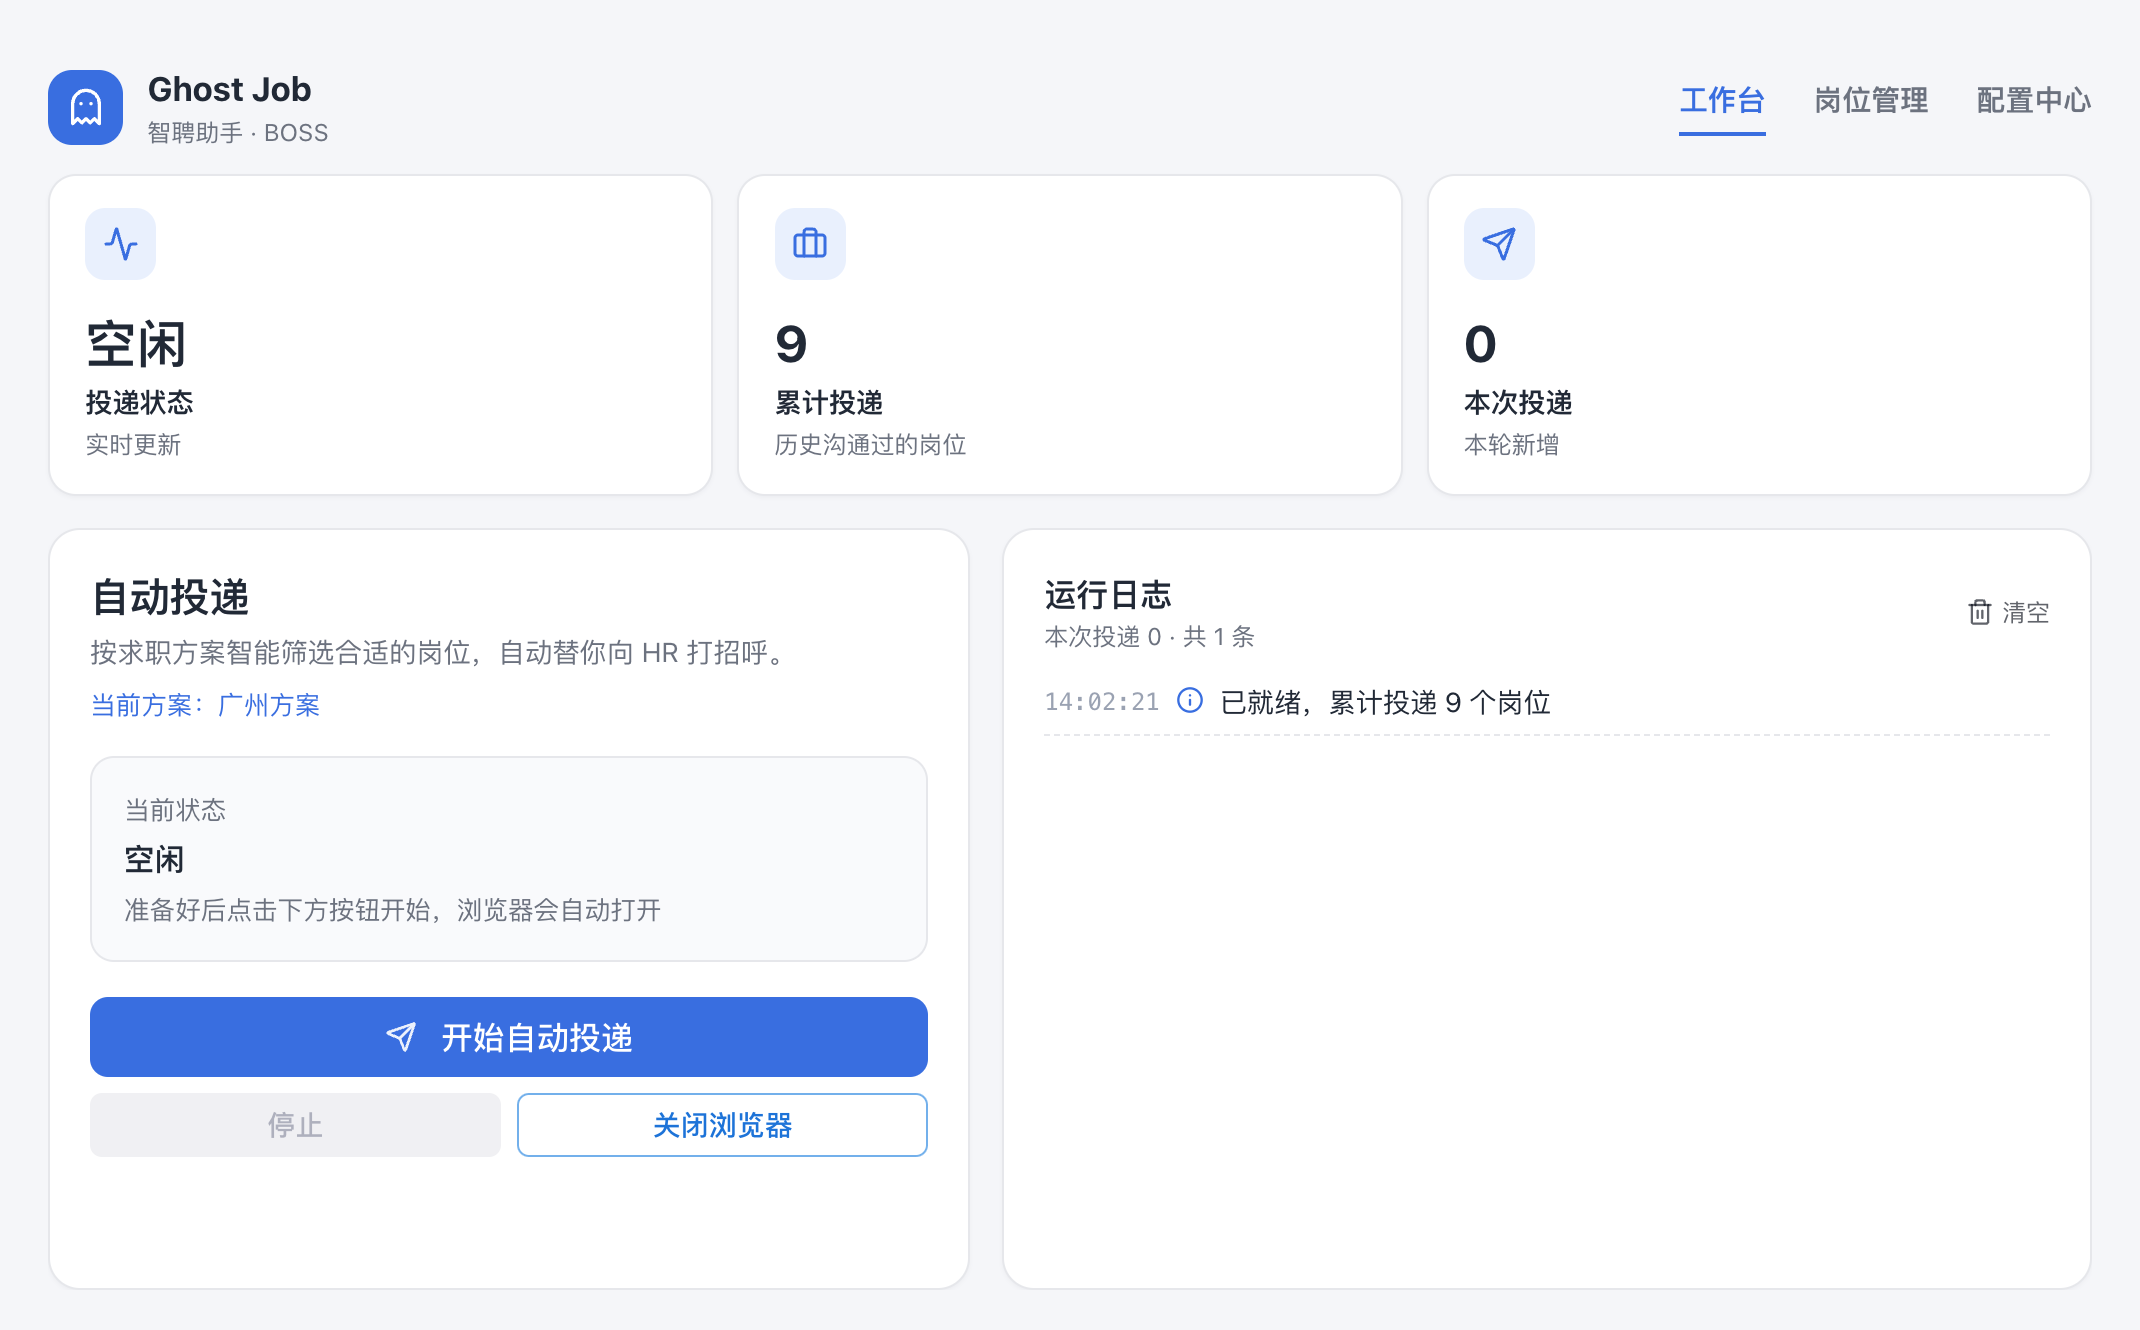
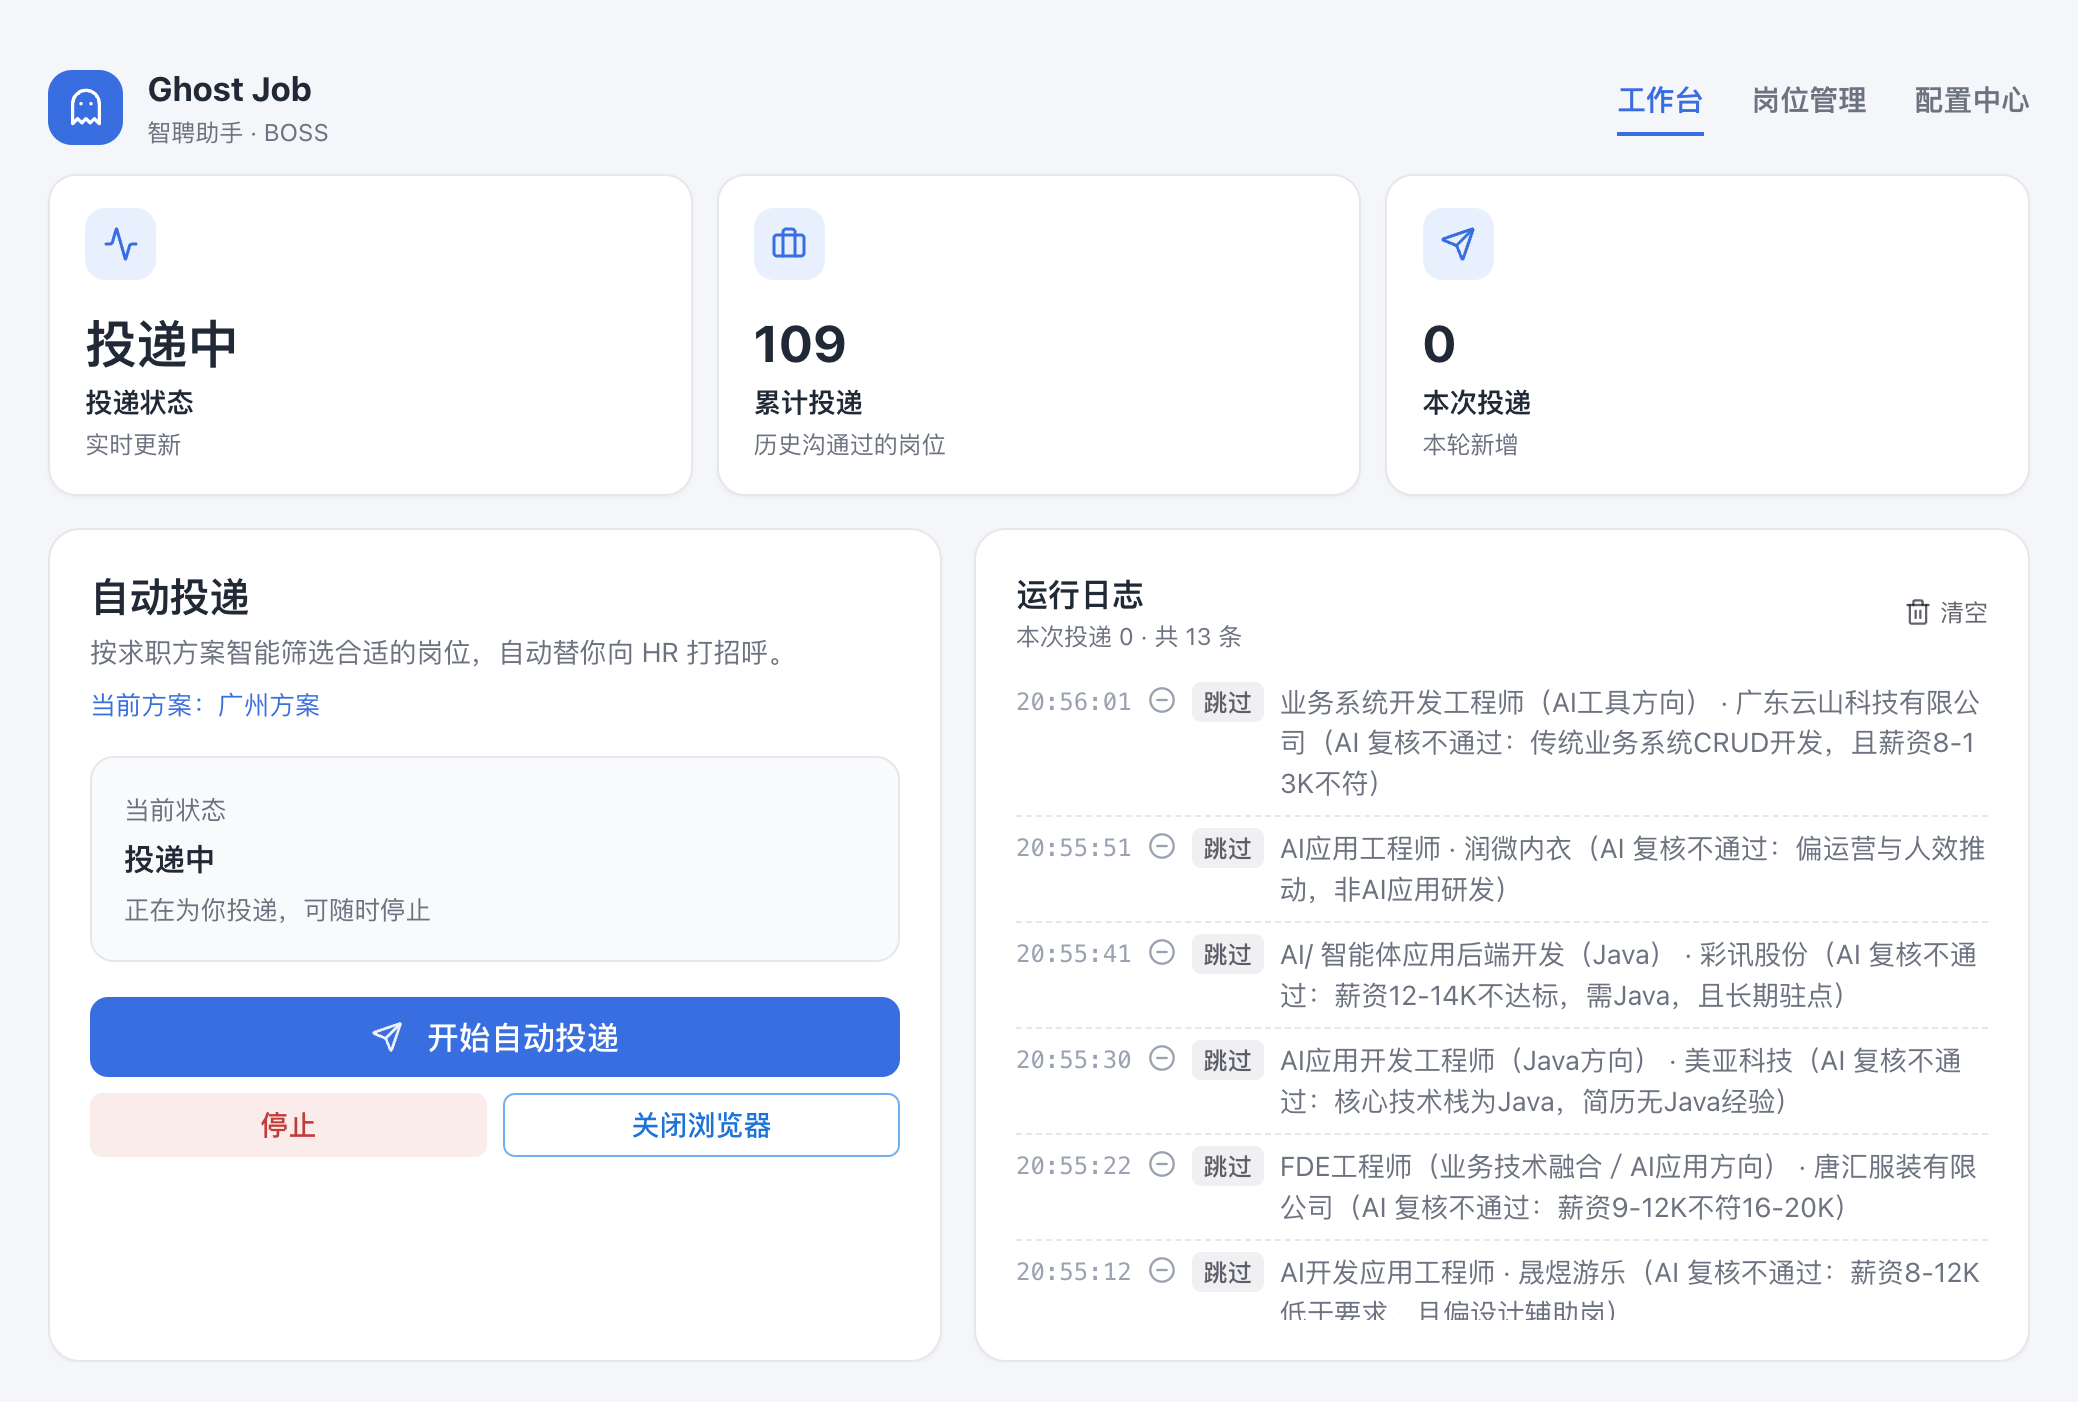
docs: 更新截图，补充 AI 岗位筛选、简历技术匹配与启动连接说明

diff --git a/README.md b/README.md
@@ -16,11 +16,11 @@
 
 ## 为什么用 Ghost Job
 
-每天刷几百个岗位、逐个点开看职责、再挨个点「立即沟通」——这些重复劳动交给 Ghost Job。
+每天刷几百个岗位、逐个点开看职责、再挨个点「立即沟通」，这些重复劳动交给 Ghost Job 就好。
 
 - **自动投递**：按求职方案逐个查看岗位，符合条件就替你向 HR 打招呼，全程无需守在电脑前
 - **AI 岗位筛选**：AI 阅读岗位职责，只投递符合你求职方向的岗位，销售、外包等一律避开
-- **简历技术匹配**：上传简历后，AI 对比岗位技术要求与你的技能，给出 0–100 的匹配度
+- **简历技术匹配**：上传简历后，AI 对比岗位技术要求与你的技能，给出 0 到 100 分的匹配度
 - **匹配度过滤**：只投递匹配度达标的岗位，把每天有限的沟通次数花在刀刃上
 - **像真人一样投递**：随机停顿、分批休息，每天节奏略有不同，降低账号风险
 - **数据只在本机**：岗位记录、简历、API Key 全部保存在你自己的电脑上
@@ -62,6 +62,35 @@
 
 ![岗位筛选](assets/screenshots/config-filters.png)
 
+#### AI 岗位筛选
+
+在岗位筛选页下方打开「AI 岗位筛选」，在「求职方向」里写清想投什么、不想投什么。写得越具体，筛选越准。
+
+下面是一份可以直接参考的模板，按自己的方向修改即可：
+
+```text
+只投 AI 应用开发、AI Agent 工程师、AI 应用工程师、AI 后端工程师 等岗位。
+
+薪资要求：16K～20K/月，优先选择明确标注薪资范围符合要求的岗位。
+
+岗位要求以 Python、FastAPI、LLM、Agent、RAG、模型 API、工具调用、工作流、AI 应用系统落地 为核心，偏工程开发与实际业务落地，而非理论研究。
+
+优先考虑 AI 产品研发、智能体开发、AI 平台开发、AI 应用系统研发 等岗位。
+
+明确排除：
+
+* 产品经理、销售、运营、市场
+* 纯算法研究、纯数据分析
+* 传统 CRUD 开发
+* 纯前端开发
+* 与 AI 应用开发关联较弱的岗位
+* 外包公司、项目外包、技术外包、人力外包
+* 劳务派遣、第三方派遣、驻场开发、外派岗位
+* 以项目制交付为主的岗位
+
+核心目标：寻找 16K～20K、以 Python + LLM + Agent 为核心、偏 AI 应用工程落地的正式研发岗位。
+```
+
 ### 第三步：上传简历
 
 切到 **简历配置**：
@@ -71,6 +100,16 @@
 3. 需要更严格时，打开「匹配度过滤」并设置最低分数（默认 60 分）
 
 ![简历配置](assets/screenshots/config-resume.png)
+
+#### 简历技术匹配
+
+打开「简历技术匹配」后，每个岗位投递前 AI 都会读一遍你的简历和岗位要求：
+
+- 技术栈对不上的岗位直接跳过，运行日志里会写明原因
+- 每个岗位会得到 0 到 100 分的匹配度，显示在「岗位管理」列表里
+- 配合「匹配度过滤」，只投递达到最低分数的岗位，比如设为 60 分，低于 60 分的都不投
+
+简历内容越完整，匹配越准。上传 PDF 后可以检查一下识别出来的文字，缺的技能、项目经历直接补上。
 
 ### 第四步：开始自动投递
 
@@ -102,6 +141,11 @@
 
 **每天能投多少个？**
 BOSS 直聘每天约 150 次沟通上限，Ghost Job 会在达到上限时自动停止。
+
+**打开后右下角提示「Cannot connect to server」怎么办？**
+这是正常现象，不用重装。Ghost Job 每次启动都要在后台加载 AI 和数据服务，加载完成前界面连不上，就会出现这个提示。一般等 1～3 分钟会自动消失，电脑配置越好越快。提示消失后就可以正常使用。
+
+![启动中](assets/screenshots/backend-connecting.png)
 
 **支持哪些系统？**
 已在 Windows 10 / 11 和 macOS 上测试可正常使用。不支持 Windows 7。Linux 提供了安装包，但尚未完整测试，遇到问题欢迎反馈。
